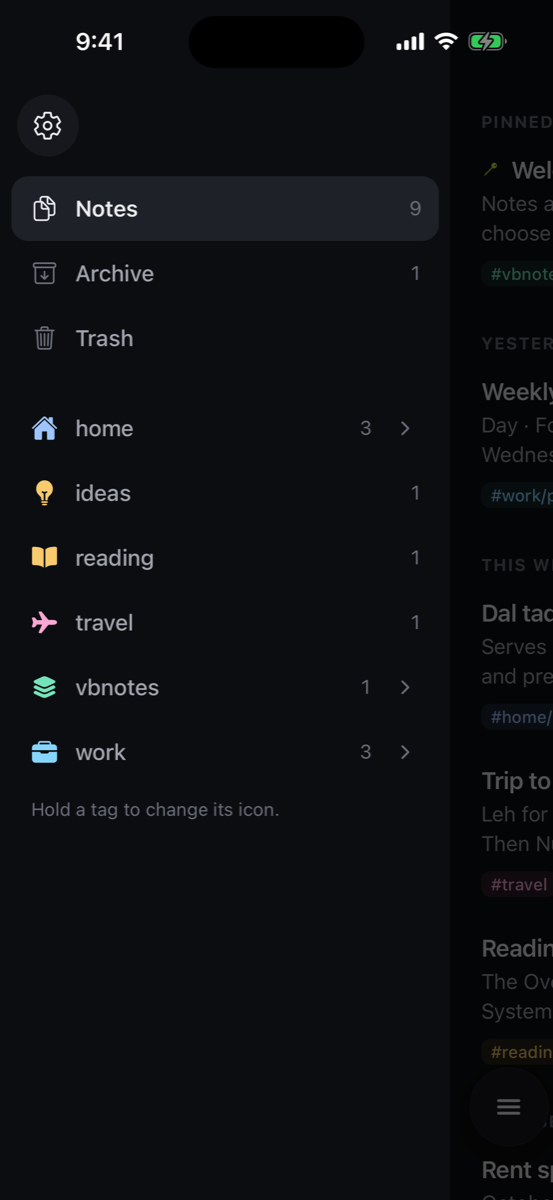
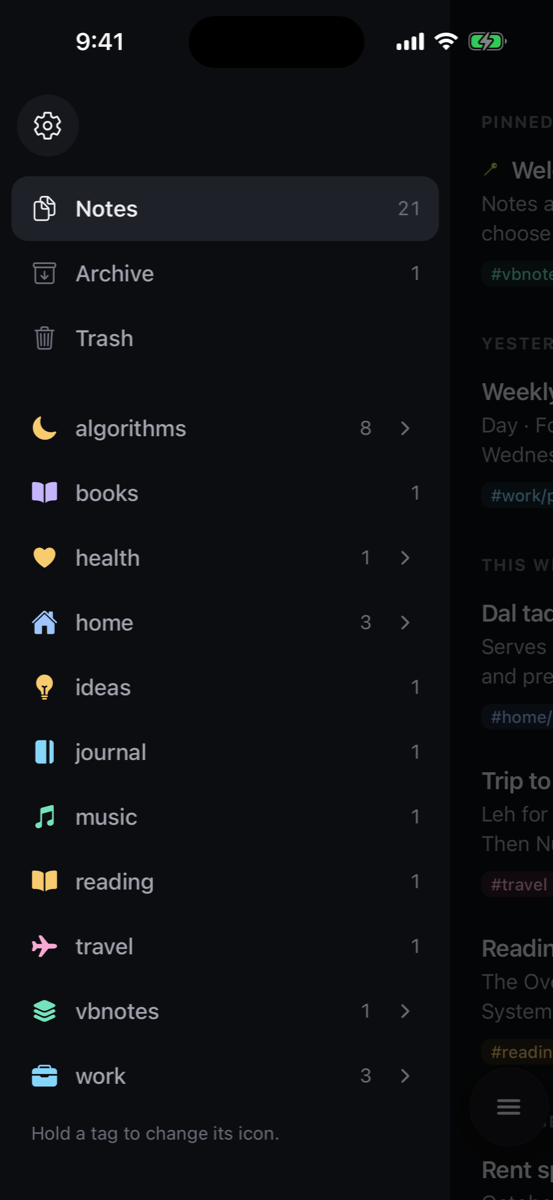
README: new screenshots

diff --git a/README.md b/README.md
@@ -1,4 +1,4 @@
-# VBNotes
+# VB Notes
 
 Markdown notes for iPhone and the desktop, with search that understands meaning and runs on the device.
 
@@ -15,13 +15,15 @@ Linux and Android builds. The iPhone app is built from source for now (see below
 |---|---|---|---|---|
 | ![Notes list](docs/screenshots/phone-list-light.png) | ![A note with tasks and a diagram](docs/screenshots/phone-note-light.png) | ![Library with nested tags](docs/screenshots/phone-library-light.png) | ![Search by meaning](docs/screenshots/phone-search-light.png) | ![Settings](docs/screenshots/phone-settings-light.png) |
 
-| Dark | Pictures | Tables and tasks | Tags | Search |
+| Dark | Pictures | Tables and tasks | Code and diagrams | Tags |
 |---|---|---|---|---|
-| ![Notes list, dark](docs/screenshots/phone-list-dark.png) | ![A note with a picture](docs/screenshots/phone-note-dark.png) | ![A table and a task list](docs/screenshots/phone-note-table-dark.png) | ![Library, dark](docs/screenshots/phone-library-dark.png) | ![Search, dark](docs/screenshots/phone-search-dark.png) |
+| ![Notes list, dark](docs/screenshots/phone-list-dark.png) | ![A note with a picture](docs/screenshots/phone-note-dark.png) | ![A table and a task list](docs/screenshots/phone-note-table-dark.png) | ![Code and a diagram](docs/screenshots/phone-note-code-dark.png) | ![Library, dark](docs/screenshots/phone-library-dark.png) |
 
 "what does my flatmate owe" finds *Rent split with Arjun* although the note never uses those words.
 
 ## Desktop (macOS, Windows, Linux)
+
+![Desktop: nested tags, a diagram and code](docs/screenshots/desktop-algorithms.png)
 
 ![Desktop, Paper theme](docs/screenshots/desktop-light.png)
 
@@ -91,7 +93,7 @@ cd desktop && npm install
 npm run tauri dev           # or: npm run tauri build
 ```
 
-Open a folder from the command line with `vbnotes ~/Notes` (macOS: `open -a VBNotes --args ~/Notes`).
+Open a folder from the command line with `vbnotes ~/Notes` (macOS: `open -a "VB Notes" --args ~/Notes`).
 
 ## Releases
 
